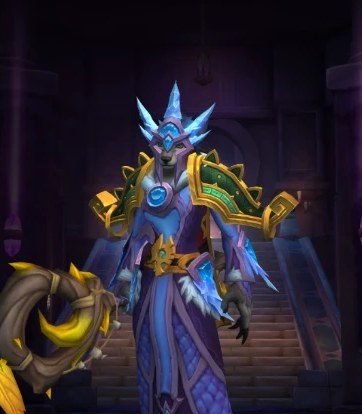
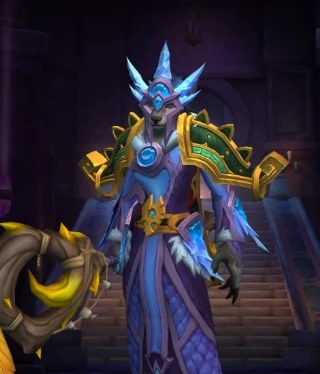
Tighter crops for Sàm and Mum portraits

diff --git a/data.js b/data.js
@@ -106,5 +106,5 @@ const GEAR={"holy": [[{"s": "Head", "items": [{"n": "Cosmic Penitent's Truesight
 S.holy.who="Ràchel";S.prot.who="Dad";
 S.holy.img="img/holy.jpg";
 S.prot.img="img/prot.jpg";
-S.sam={...S.arcane,base:"arcane",who:"Sàm",img:"img/sam.jpg",eyebrow:"Sàm · Ranged damage",chips:[["Sunfury hero tree","var(--accent)"]]};
-S.mum={...S.arcane,base:"arcane",who:"Mum",img:"img/mum.jpg",eyebrow:"Mum · Ranged damage",chips:[["Sunfury hero tree","var(--accent)"]],logs:null};
+S.sam={...S.arcane,base:"arcane",who:"Sàm",img:"img/sam.jpg?v=2",eyebrow:"Sàm · Ranged damage",chips:[["Sunfury hero tree","var(--accent)"]]};
+S.mum={...S.arcane,base:"arcane",who:"Mum",img:"img/mum.jpg?v=2",eyebrow:"Mum · Ranged damage",chips:[["Sunfury hero tree","var(--accent)"]],logs:null};
